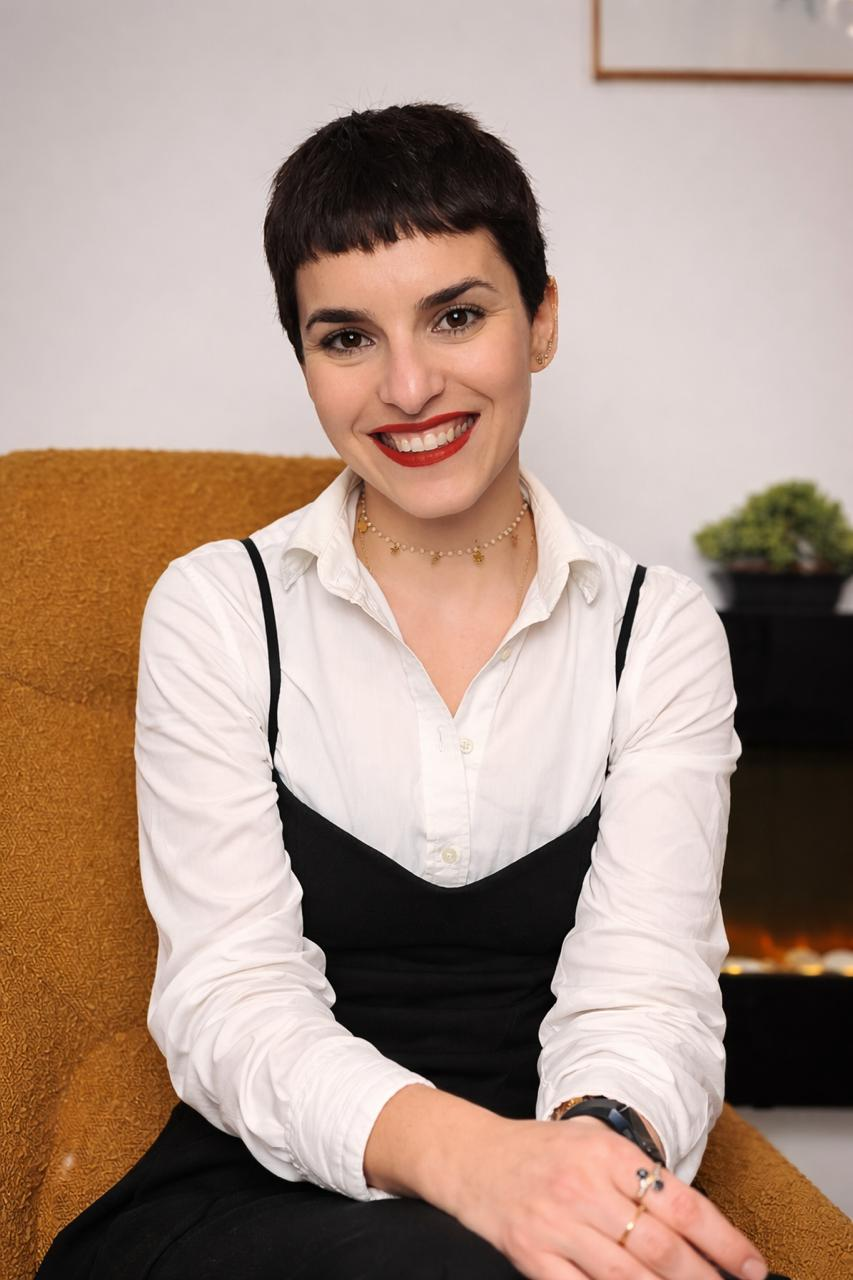
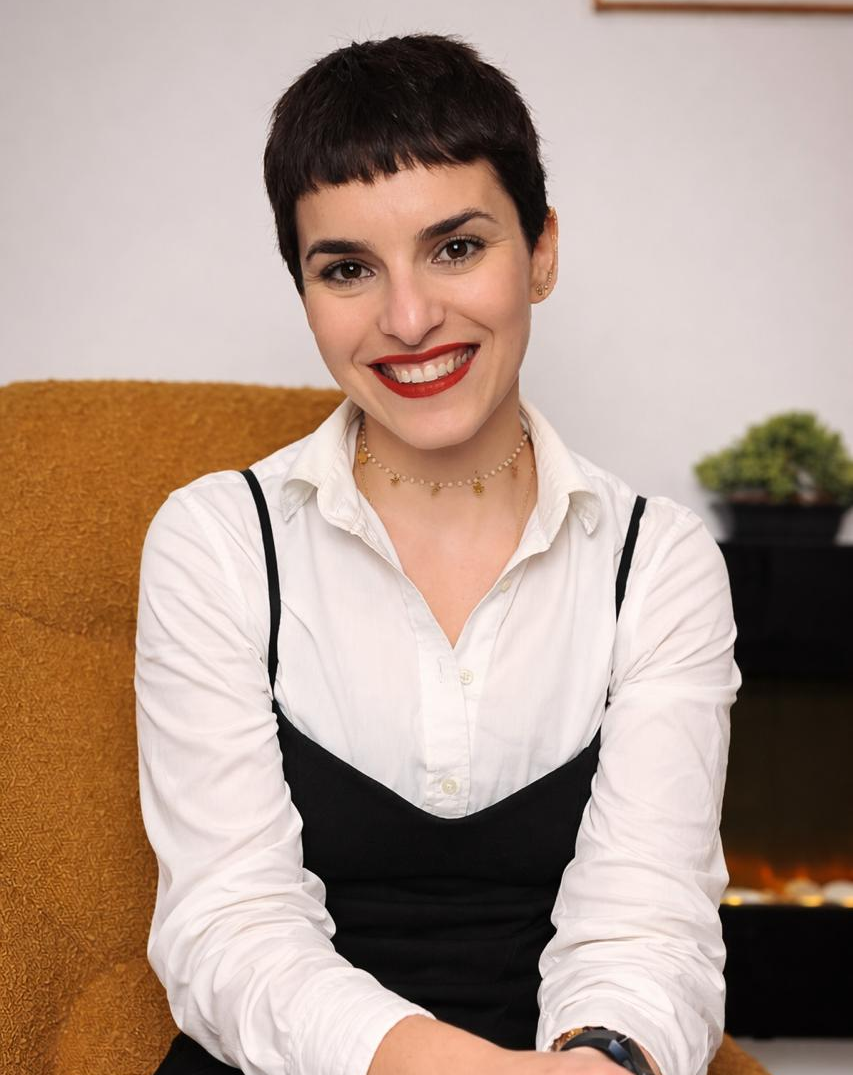
Changes

diff --git a/src/pages/TerapiaPareja.tsx b/src/pages/TerapiaPareja.tsx
@@ -5,7 +5,7 @@ import { Button } from "@/components/ui/button";
 import { Header } from "@/components/Header";
 import { Footer } from "@/components/Footer";
 import heroImage from "@/assets/terapia-pareja-hero.jpg";
-import nereaImage from "@/assets/nerea-terapeuta.jpg";
+import nereaImage from "@/assets/nerea-terapeuta-new.jpg";
 
 const benefitsData = [
   {
